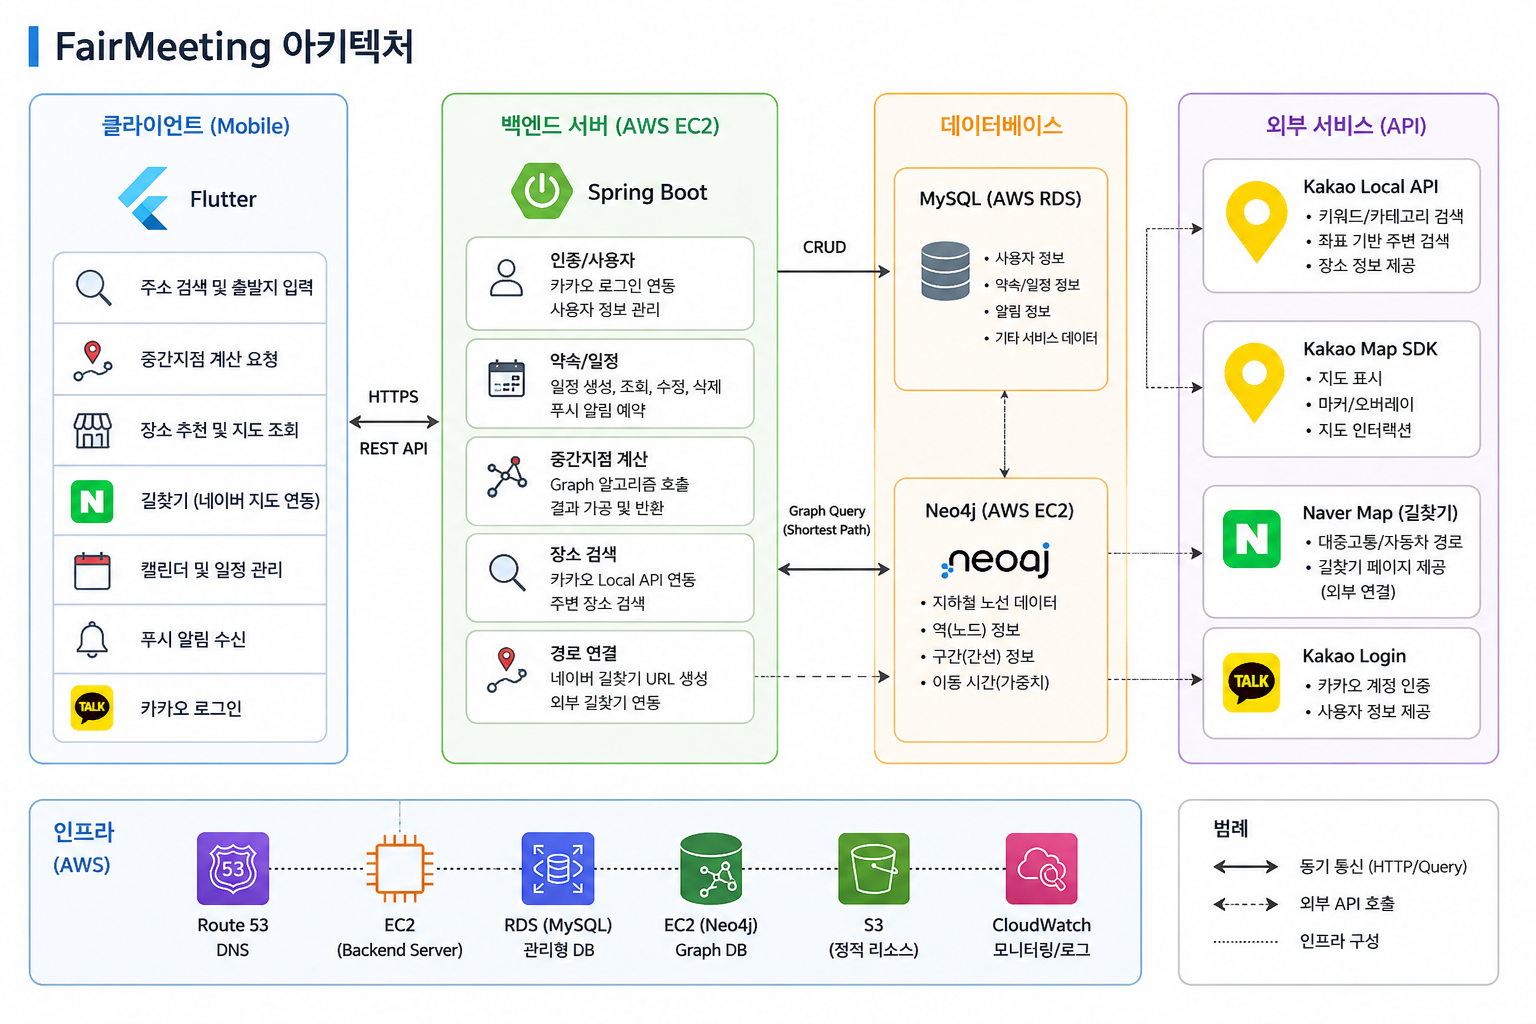
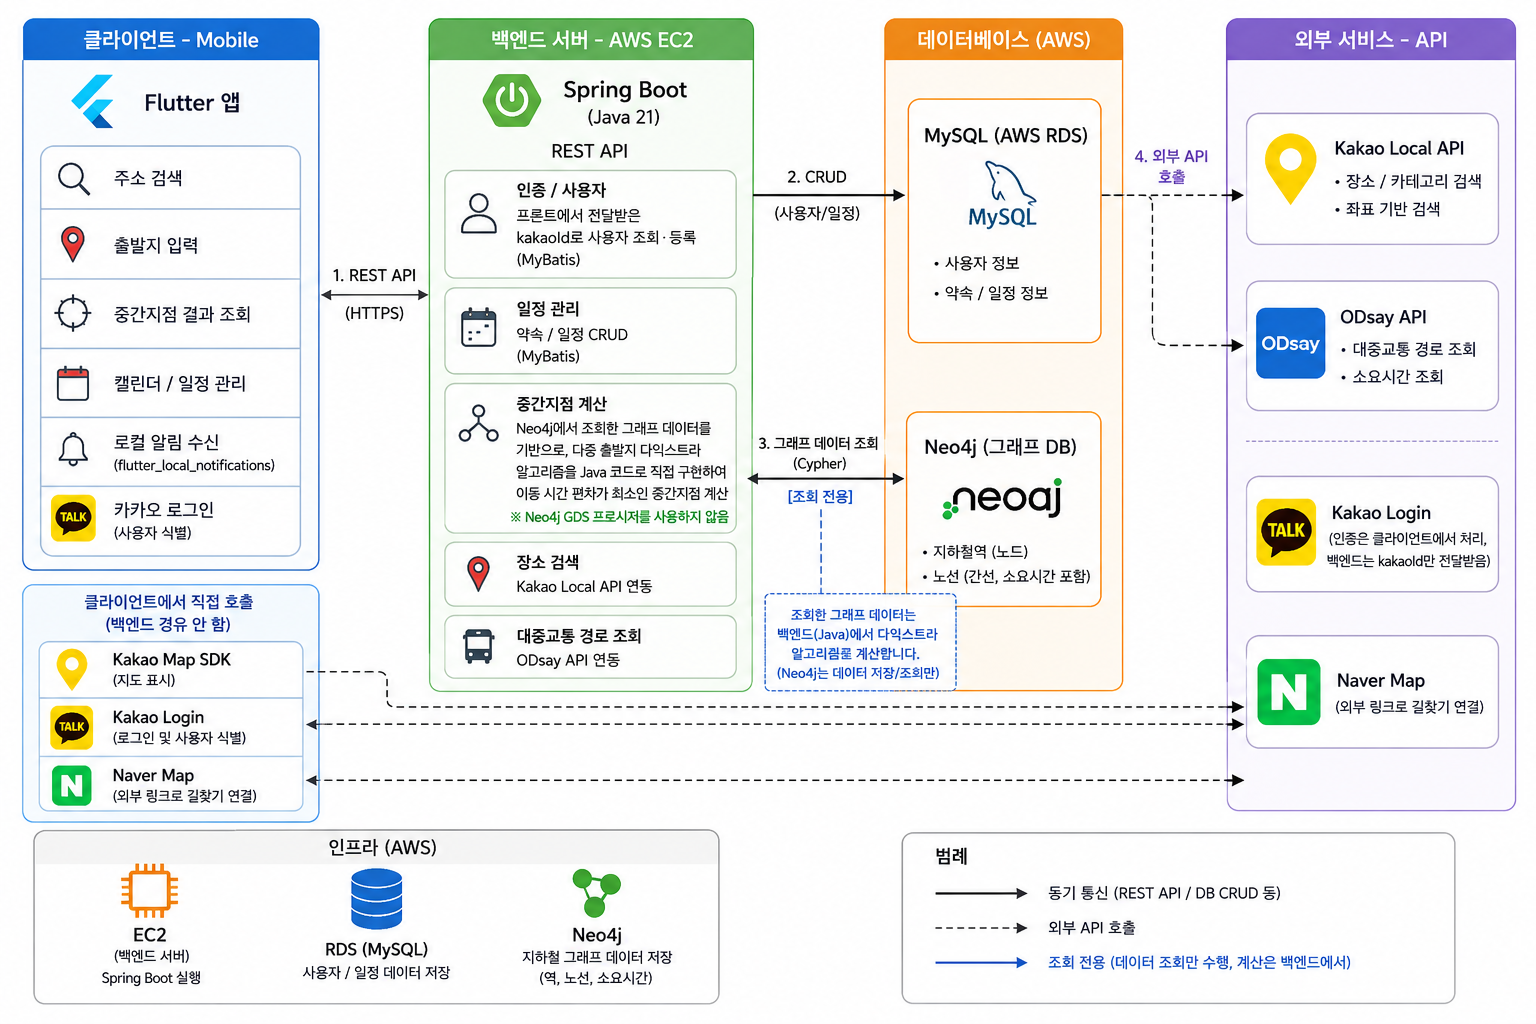
docs: 아키텍처 다이어그램 수정 및 README 섹션 순서 재배치

diff --git a/README.md b/README.md
@@ -1,11 +1,36 @@
 # FairMeeting
 
 ## 📌 프로젝트 개요
-**FairMeeting**은 사용자의 출발 위치를 기반으로 최적의 중간지점을 계산하고,  
-카테고리별 장소 추천, 일정 등록, 푸시 알림까지 제공하는 약속 관리 앱입니다.  
 
-기존 서비스의 단점을 보완하며, **소요 시간 편차 최소화 알고리즘**을 활용하여  
-더 공정한 만남 장소를 추천합니다. 
+여러 사람이 약속 장소를 정할 때는 각 출발지의 단순한 지리적 중심을 기준으로 장소를 선택하는
+경우가 많습니다. 그러나 지리적으로 가까운 거리라도 노선과 환승 횟수에 따라 실제 이동 시간은
+크게 달라질 수 있어 특정 참여자에게 이동 부담이 집중될 수 있습니다.
+
+**FairMeeting**은 각 출발지에서 후보 지점까지의 대중교통 이동 시간을 비교하고, 참여자 간 이동
+시간 편차가 가장 작은 지점을 계산하여 보다 공정한 약속 장소를 추천하는 모바일 앱입니다.
+
+- **프로젝트 기간**: 2025.03.10 ~ 2025.06.15 (컴퓨터공학 캡스톤디자인)
+- **팀 구성**: 3인
+
+> 본 저장소는 포트폴리오 정리를 위해 개인 계정으로 옮긴 사본입니다.
+> 
+> 원본 저장소: [Backend](https://github.com/fairmeeting/fair_back) · [Frontend](https://github.com/fairmeeting/fair_front)
+
+---
+
+## 👥 팀 구성 (컴퓨터공학 캡스톤디자인, 3인)
+
+| 이름 | 역할 |
+|---|---|
+| 홍창희 | 비즈니스 로직 구현 (중간지점 계산 알고리즘, 검색/경로 API, 예외 처리) |
+| 임채환 | DB & Server |
+| 윤찬혁 | UI 구현 |
+
+---
+
+## 🎬 데모 영상
+
+[![데모 영상](https://img.youtube.com/vi/0NHQ85YaOBU/maxresdefault.jpg)](https://youtu.be/0NHQ85YaOBU)
 
 ---
 
@@ -34,35 +59,124 @@
 - 📍 **공정한 중간지점 계산** (시간 편차 최소화)
 - 🍽 **카테고리별 장소 추천** (음식점, 카페, 문화시설 등)
 - 🗓 **캘린더 연동 및 일정 저장**
-- 🔔 **약속 24시간 전 푸시 알림**
+- 🔔 **약속 24시간 전 로컬 알림**
 - 🧭 **네이버 길찾기 연동**
 - 📤 **카카오톡 약속 공유**
 - 🔐 **카카오 로그인 및 비회원 모드 지원**
 
 ---
 
+## 🛠 기술 스택
+
 ### ✅ Frontend
+
 - Flutter (Dart)
 - Kakao Map SDK (지도 렌더링 및 장소 검색)
 - Provider (전역 상태 관리)
 - SharedPreferences (로컬 데이터 저장)
 - table_calendar (캘린더 UI 구성)
-- flutter_local_notifications (푸시 알림 예약 및 실행)
+- flutter_local_notifications (약속 시간 기준 로컬 알림 예약 및 실행)
 - url_launcher (외부 링크 이동: 네이버 길찾기 등)
 - geolocator (GPS 기반 현재 위치 수신)
 - kakao_flutter_sdk_user (카카오 로그인 연동)
 - flutter_timezone, timezone (시간대 기반 알림 처리)
 
-
 ### ✅ Backend
-- Spring Boot (Java 21)
-- REST API, JWT 인증
-- JPA, MyBatis
+
+- Java 21, Spring Boot
+- REST API
+- MyBatis (사용자·일정 CRUD)
+- Neo4j Java Driver (Cypher 쿼리로 지하철역·노선 그래프 데이터 조회)
+- 인증: Flutter에서 카카오 로그인을 수행하고, 전달받은 카카오 사용자 식별자(kakaoId)를
+  기준으로 백엔드에서 사용자 정보를 조회·등록. 별도의 자체 JWT 인증 서버는 구현하지 않음
 
 ### ✅ Infra & DB
+
 - AWS EC2 (배포 서버)
 - AWS RDS (MySQL)
 - Neo4j (지하철 경로 탐색용 그래프DB)
+
+---
+
+## 🏗 아키텍처
+
+![아키텍처](images/architecture.png)
+
+Flutter 클라이언트는 Spring Boot 서버와 REST API로 통신합니다. 사용자와 일정 데이터는
+MySQL에 저장하고, 지하철역과 노선 정보는 그래프 구조에 적합한 Neo4j에 저장했습니다.
+
+중간지점 계산 시 백엔드는 Neo4j에서 역과 노선 데이터를 조회한 뒤, Java로 직접 구현한
+다중 출발지 다익스트라 알고리즘을 실행합니다. 각 출발지에서 후보 역까지의 이동 시간을
+계산하고, 참여자 간 이동 시간 편차가 가장 작은 역을 최종 중간지점으로 선정합니다.
+
+장소명·주소 검색과 중간지점 주변의 카테고리별 장소 검색에는 Kakao Local API를 사용하며,
+지도 표시는 Kakao Map SDK로 처리합니다. 대중교통 경로와 소요시간은 ODsay API를 통해
+조회하고, 최종 장소까지의 상세 길찾기는 네이버 지도 외부 링크로 연결합니다.
+
+---
+
+## 🧮 핵심 알고리즘 & 예외 처리
+
+여러 출발지에서 후보 역까지의 이동 시간을 계산한 뒤, 이동 시간 편차가 가장 작은 역을
+중간지점으로 선정합니다. 지하철 노선 데이터는 Neo4j에 노드와 간선으로 저장하고, 조회한
+그래프 데이터를 기반으로 Java에서 **다중 출발지 다익스트라 알고리즘과 N-1 부분집합
+최적화**를 직접 구현했습니다.
+
+계산이 무의미해지거나 실패할 수 있는 경계 상황 6종을 정의하고 예외 처리를 구현했습니다.
+
+| # | 경계 상황 | 처리 결과 |
+|---|---|---|
+| 1 | 출발지가 2개 미만 | 실행 차단 + 안내 메시지 |
+| 2 | 출발지가 5개 초과 | 추가 입력 제한 + 안내 메시지 |
+| 3 | 출발지 간 거리가 한 정거장 수준으로 근접 | 실행 차단 + 안내 메시지 |
+| 4 | 출발지 중 하나가 계산된 중간지점과 동일 | 소요시간 0분으로 정상 처리 (예외 아님) |
+| 5 | 서비스 범위(수도권 1~9호선) 밖의 역이 출발지인 경우 | 실행 차단 + 안내 메시지 |
+| 6 | 동일 출발지를 여러 번 입력 | 중복 포함하여 정상 계산 |
+
+---
+
+## 🚀 실행 방법
+
+### Backend 환경변수
+
+`backend` 폴더에 `.env` 파일을 생성합니다.
+
+```env
+DB_URL=jdbc:mysql://localhost:3306/fairmeeting
+DB_USERNAME=your_username
+DB_PASSWORD=your_password
+
+NEO4J_URI=bolt://localhost:7687
+NEO4J_USERNAME=neo4j
+NEO4J_PASSWORD=your_password
+
+KAKAO_API_KEY=your_kakao_rest_api_key
+ODSAY_KEY=your_odsay_api_key
+```
+
+### Backend 실행
+
+```bash
+cd backend
+./mvnw spring-boot:run
+```
+
+서버는 기본적으로 `8088` 포트에서 실행됩니다.
+
+### Backend 실행 (Docker)
+
+```bash
+cd backend
+docker compose up -d --build
+```
+
+### Frontend 실행
+
+```bash
+cd frontend
+flutter pub get
+flutter run
+```
 
 ---
 
